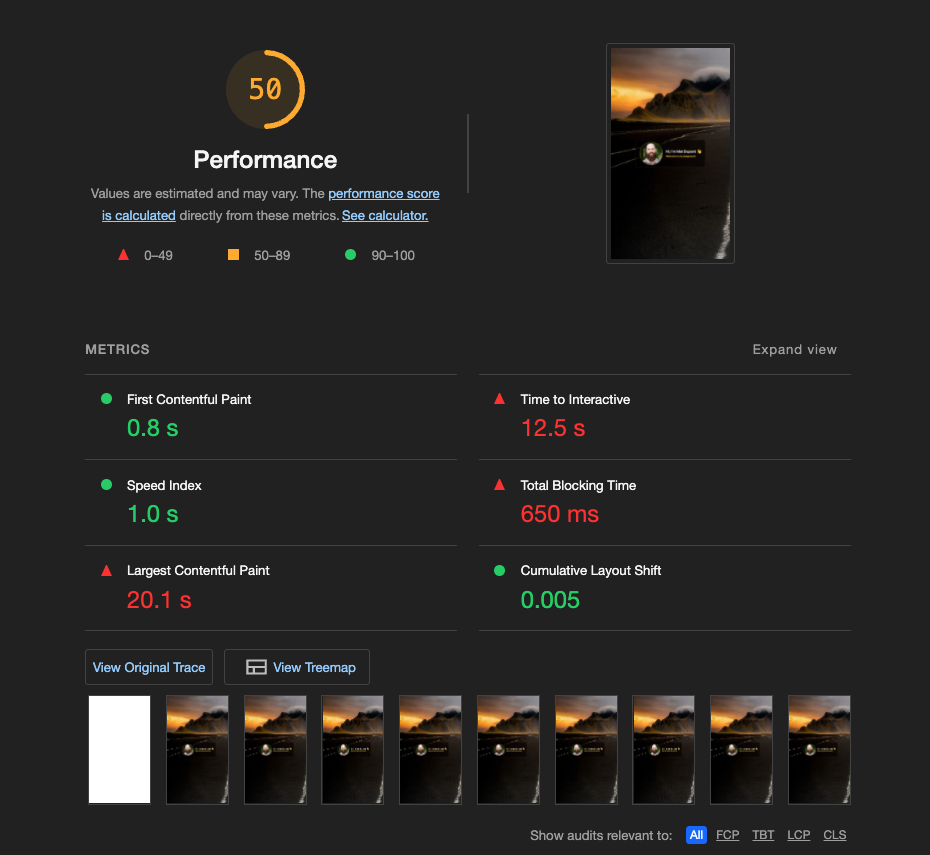
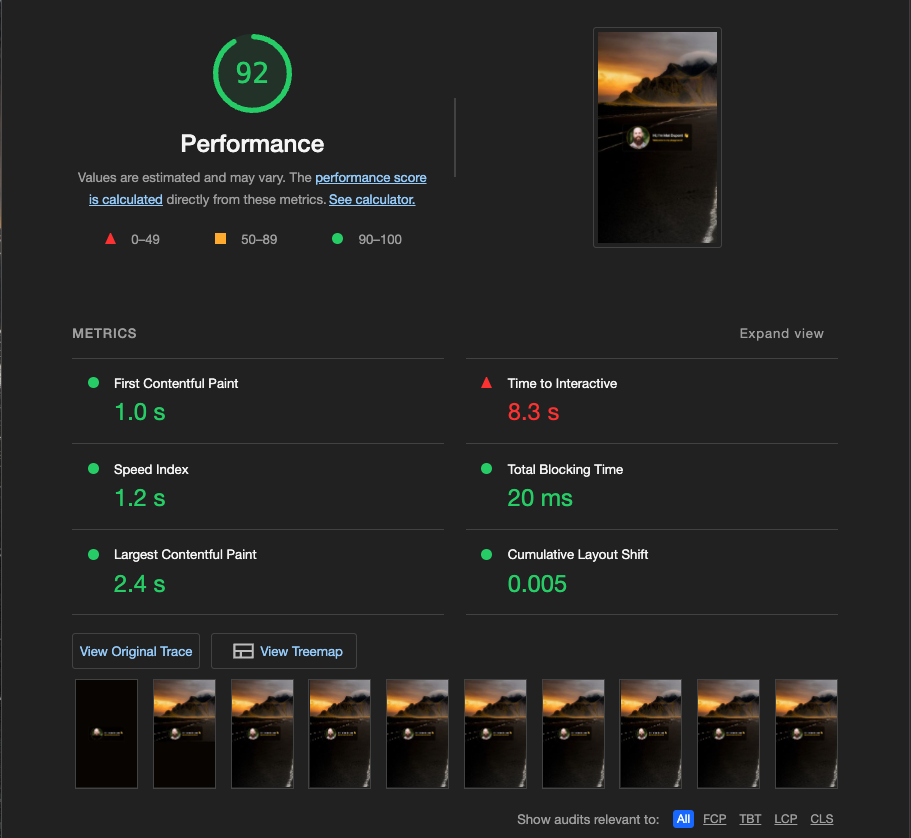
post about continued lighthouse considerations and a11y fix

diff --git a/src/index.html b/src/index.html
@@ -1,10 +1,13 @@
 <!DOCTYPE html>
-<html class="h-full dark:bg-red-900 bg-red-300">
-  <head>
-    <meta charset="utf-8" />
-    <title>MatDupont.dev</title>
-  </head>
-  <body class="bg-slate-900 h-full">
-    <div id="root"></div>
-  </body>
+<html lang="en" class="h-full dark:bg-red-900 bg-red-300">
+
+<head>
+  <meta charset="utf-8" />
+  <title>MatDupont.dev</title>
+</head>
+
+<body class="bg-slate-900 h-full">
+  <div id="root"></div>
+</body>
+
 </html>

diff --git a/blog/220227/01-lighthouse.md b/blog/220227/01-lighthouse.md
@@ -1,0 +1,49 @@
+# Lighthouse Continued
+
+## Accessibility
+
+At first glance, this are looking pretty good for my site's accessibility (a11y).
+
+![Accessibility Audit](a11y.png)
+
+I won't let this fool me into a false sense of confidence. Lighthouse A11y audits checks for the lowest bar in terms of actual user accessibility.
+
+That being said, I'm definitely missing the `lang` attribute on my `<html>` tag. Lowest bar or not, heed these warnings.
+
+Thankfully, we get a list of manual checks. I'm a firm believer that a11y is extremely important and that the internet is for everyone. With that, I would prefer these manual checks were more prominent on this page.
+
+More on manual and automated a11y checks coming soon.
+
+## Best Practices
+
+In terms of best practices, it looks like I just have one recommendation.
+
+![Best Practices Audit](best-practices.png)
+
+It seems I'm missing a `favicon.ico` for my site. The browser is automatically looking for this, so the network call throws 403 error.
+
+Clearly, this is no good.
+
+## SEO
+
+The biggest hit to my Lighthouse score is the SEO score.
+
+![SEO Audit](seo.png)
+
+From the looks of it, I'm passing 8 audits but my mobile experience is shit. I'm missing some basic `<meta>` tags among other things.
+
+I think this will be an easy fix!
+
+## PWA
+
+I've done literally no work in regards to a PWA (Progressive Web App), so this score is hardly surprising.
+
+Clearly, this is not a PWA right now.
+
+![PWA Audit](pwa.png)
+
+Manifest files and application-specific settings aside, it looks like I'll get to knock out a few of these issues as I tackle some of other audits.
+
+## Let's hit it
+
+[Follow along](https://github.com/matldupont/matdupont-dev/blob/main/blog/220227/02-improvements.md) as I start tackling some of these issues.

diff --git a/blog/220227/02-improvements.md b/blog/220227/02-improvements.md
@@ -1,0 +1,25 @@
+# Audit improvements
+
+## Accessibility
+
+I only seem to have one glaring a11y issue, so I'll knock that one out right away.
+
+```
+<html> element does not have a [lang] attribute
+```
+
+The problem here is that I'm not telling the browser that my copy is in English. This leaves a screen reader to try going through my site in whatever language is set in a user's screen reader.
+
+I'm not sure if or when I'll tackle an internationalization (i18n) for the site, but for now it's a matter of setting this in my _`/src/index.html`_
+
+```html
+<html lang="en" class="h-full bg-red-300 dark:bg-red-900"></html>
+```
+
+I can test this change by running another audit from my dev server. I'm not currently concerned with the Performance score, so I don't have to go through the trouble of redeploying with every change just yet.
+
+Sweet.
+
+![100% Accessibility Audit](a11y-100.png)
+
+I'll reiterate that this doesn't necessarily mean my site is completely accessible to all users. I just don't have any super obvious issues.

diff --git a/blog/220222/01-lighthouse.md b/blog/220222/01-lighthouse.md
@@ -6,13 +6,13 @@ I swear, I didn't knowingly use any massive, unoptimized images or forget to mak
 
 ## The First Audit
 
+> Make sure you run the audit on your deployed code, not your dev server. Otherwise, you may go chasing imaginary preformance issues.
+
 I'll open up DevTools and kick off the first audit. **Generate report!**
 
 ![Lighthouse pane](lighthouse-0.png)
 
-😐
-
-I mean... I guess it could be worse? 100 for Best Practices!
+Not bad!
 
 ![Lighthouse Audit #1](lighthouse-1.png)
 
@@ -20,7 +20,7 @@ Let's dive in.
 
 ## Performance
 
-It looks like the big culprits are _**Time to Interactive**_, _**Total Blocking Time**_ and _**Largest Contentful Paint**_.
+It looks like the main culprit is _**Time to Interactive**_.
 
 ![Lighthouse Performance #1](performance-1.png)
 

diff --git a/README.md b/README.md
@@ -39,3 +39,7 @@ As I build out my site, I'll be trying out new ideas and mashing up a bunch of t
 ## Performance
 
 [Feb 22, 2022 - Lighthouse Audits](https://github.com/matldupont/matdupont-dev/blob/main/blog/220222/01-lighthouse.md)
+
+[Feb 27, 2022 - Lighthouse A11y, SEO, Best Practices and PWA](https://github.com/matldupont/matdupont-dev/blob/main/blog/220227/01-lighthouse.md)
+
+[Feb 27, 2022 - Audit Improvements](https://github.com/matldupont/matdupont-dev/blob/main/blog/220227/02-improvements.md)
